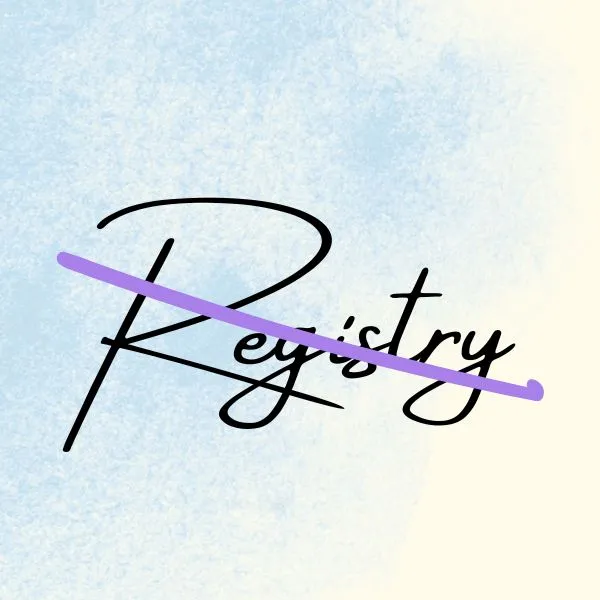
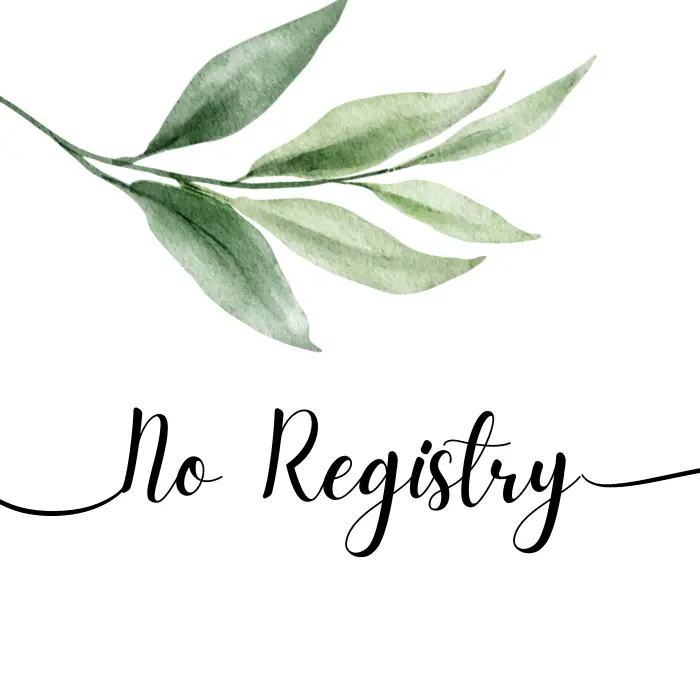
Changed sustainability write ups and fixed katies name

diff --git a/public/index.html b/public/index.html
@@ -239,6 +239,12 @@
                 <span>Accommodations</span>
               </a>
             </li>
+            <!-- <li>
+              <a href="#freetime" class="flex">
+                <i class="material-icons">nature_people</i>
+                <span>Free Time</span>
+              </a>
+            </li> -->
           </ul>
         </nav>
       </div>
@@ -287,36 +293,12 @@
         <div class="sustain-cards">
           <div class="card sustain-card">
             <div class="sustain-card__img">
-              <img src="/imgs/sustainability/molly.webp" alt="" />
-            </div>
-            <div class="sustain-card__text">
-              <h2 class="text-xl center">Bride</h2>
+              <img src="/imgs/sustainability/bridal_party.webp" alt="" />
             </div>
             <div class="description">
-              Molly's wedding dress is pre-loved from
-              <a
-                target="_blank"
-                href="https://www.facebook.com/KnotTooShabbyBridal/"
-              >
-                Knot Too Shabby
-              </a>
-              in Stratford, ON.
-              <!-- Jennie carries a nice selection of dresses for
-              everyone and offers beautiful consignment dresses. -->
-            </div>
-          </div>
-
-          <div class="card sustain-card">
-            <div class="sustain-card__img">
-              <img src="/imgs/sustainability/bridesmaids.webp" alt="" />
-            </div>
-            <div class="sustain-card__text">
-              <h2 class="text-xl center">Bridesmaids</h2>
-            </div>
-            <div class="description">
-              The bridesmaids have been working diligently to thrift their
-              dresses, wear what they have or borrow from a friend! You'll
-              notice they are all different, but uniquely their own :)
+              Molly and bridesmaids have been working diligently to thrift 
+              their dresses, wear what they have or borrow from a friend! 
+              You'll notice they are all different, but uniquely their own.
             </div>
           </div>
 
@@ -324,24 +306,30 @@
             <div class="sustain-card__img">
               <img src="/imgs/sustainability/groomsmen.webp" alt="" />
             </div>
-            <div class="sustain-card__text">
-              <h2 class="text-xl center">Groomsmen</h2>
+            <div class="description">
+              The groomsmen are renting their suits or wearing what they already own.  
+            </div>
+          </div>
+
+          <div class="card sustain-card">
+            <div class="sustain-card__img">
+              <img src="/imgs/sustainability/guests.webp" alt="" />
             </div>
             <div class="description">
-              The groomsmen are renting their suits or wearing what they already
-              own.
+              Please do not buy anything new for our wedding; this includes clothing, 
+              gifts, accessories, etc. We encourage you to please check your local 
+              thrift store or borrow from a friend. We are trying our darndest not to 
+              buy into the fast fashion industry, but it needs to be a collective effort.
+              We appreciate your environmentally conscious actions.               
             </div>
           </div>
 
           <div class="card sustain-card">
             <div class="sustain-card__img">
               <img
-                src="/imgs/sustainability/engagement_ring.webp"
+                src="/imgs/sustainability/rings.webp"
                 alt="Engagement ring in a white rose"
               />
-            </div>
-            <div class="sustain-card__text">
-              <h2 class="text-xl center">Rings</h2>
             </div>
             <div class="description">
               Our engagement ring and wedding bands come from Poags Jewelers in
@@ -352,41 +340,22 @@
           <div class="card sustain-card">
             <div class="sustain-card__img">
               <img
-                src="/imgs/sustainability/ivey.webp"
+                src="/imgs/sustainability/venue.webp"
                 alt="Ivey Spencer Leadership Center"
               />
             </div>
-            <div class="sustain-card__text">
-              <h2 class="text-xl center">Venue</h2>
-            </div>
             <div class="description">
-              We found a venue with accommodations to prevent extra travelling
-              during the wedding day.
-              <ul>
-                <li>
-                  We encourage you to park at Ivey Spencer prior to the wedding
-                  ceremony and take a 10 minute walk down Windermere Rd. to the
-                  chapel and back.
-                </li>
-                <li>
-                  We are working with the venue to take the compost with us
-                  after the celebrations (since London is one of the last major
-                  cities that does not yet have a public compost program).
-                </li>
-                <li>
-                  We chose a buffet style dinner so you can just take the food
-                  you will actually eat and hopefully prevent half your plate
-                  from being tossed.
-                </li>
-              </ul>
+              Ivey Spencer is close to Windermere, which limits travel during the day.
+              You can park at Ivey prior to the wedding ceremony OR carpool to the Mass
+              and back OR walk. Ivey offers composting options for our food scraps, 
+              and we are working with the kitchen to make limited food 
+              for our buffet. We chose a buffet style dinner so you can just take the food 
+              you will actually eat and prevent half your plate from being tossed. 
             </div>
           </div>
           <div class="card sustain-card">
             <div class="sustain-card__img">
               <img src="/imgs/sustainability/registry.webp" alt="No registry" />
-            </div>
-            <div class="sustain-card__text">
-              <h2 class="text-xl center">Lack of Registry</h2>
             </div>
             <div class="description">
               We are asking for no gifts, please. We are hoping to start our
@@ -414,10 +383,10 @@
             <div class="card__content">
               <h2 class="text-2xl">Mass</h2>
               <p>
-                Please consider parking at Ivey Spencer Leadership Centre and
-                walking to the Church (about a 5-10 minute walk). There will be
-                plenty of time to walk back following Mass and before the
-                reception.
+                The Ceremony begins at 2pm! Please consider parking at Ivey Spencer Leadership
+                Centre and either carpooling down the road or walking to the Church 
+                (about a 10-20 minute walk). There will be plenty of time to walk back 
+                following Mass and before the reception. 
               </p>
             </div>
             <div class="card__deets">
@@ -440,10 +409,11 @@
             <div class="card__content">
               <h2 class="text-2xl">Check-in</h2>
               <p>
-                Following Mass, you will have time to check-in and settle into
-                your room. Take this opportunity to change into your good
-                dancing shoes :) This is the time we will be taking photos with
-                our families and bridal party.
+                Please call Ivey Spencer in the morning to ask for an earlier check-in.
+                Their standard time is 3pm, but they may make an exception for Wedding guests.
+                Following Mass, you will have time to check-in and settle into your room. 
+                Take this opportunity to change into your good dancing shoes :) This is 
+                the time we will be taking photos with our families and bridal party.
               </p>
             </div>
             <div class="card__deets">
@@ -456,19 +426,42 @@
                 Ivey Spencer Leadership Centre
               </a>
               <i class="material-icons">schedule</i>
-              <span>4pm</span>
+              <span>3pm</span>
             </div>
           </div>
           <div class="timeline-badge"></div>
         </div>
+
+        <div class="timeline-event">
+          <div class="timeline-content card">
+            <div class="card__content">
+              <h2 class="text-2xl">Free Time</h2>
+              <p>
+                See below for a list of “things to do in London”<br>
+                While we take our photos, you are invited to head back 
+                to your room, or down to the Parish Hall in Windermere for
+                some coffee & tea & social time. There will also be some 
+                lawn games set-up at Ivey Spencer beside the reception tent 
+                for you to enjoy! (There is also a pool table in the lobby).
+              </p>
+            </div>
+            <div class="card__deets">
+              <i class="material-icons">location_on</i>
+              <span>London, Ontario</span>
+              <i class="material-icons">schedule</i>
+              <span>3:30 pm</span>
+            </div>
+          </div>
+          <div class="timeline-badge"></div>
+        </div>
+
         <div class="timeline-event">
           <div class="timeline-content card">
             <div class="card__content">
               <h2 class="text-2xl">Reception</h2>
               <p>
-                Please meet outside Ivey Spencer at the Big White Tent to find
-                your seat. Sign our guest book, snap some photos, and introduce
-                yourself to someone new
+                The rest of the evening will be held in the Big White Tent on the lawn.
+                Find your seat and get ready for dinner and dancing!
               </p>
             </div>
             <div class="card__deets">
@@ -485,11 +478,12 @@
             <div class="card__content">
               <h2 class="text-2xl">Dinner</h2>
               <p>
-                Dinner will be buffet style. It just so happens that buffets are
-                one of Philip's top love languages. Please remember our priority
-                of sustainability. Take what you know you will eat and go back
-                for seconds if you know you can have more. We would love to save
-                on food-waste.
+                Dinner will be buffet style. It just so happens that
+                buffets are one of Philip's top love languages. Please
+                remember our priority of sustainability. Start with a small
+                plate to take what you know you will eat and go back for
+                seconds if you know you can have more. We would love
+                to save on food-waste. 
               </p>
             </div>
             <div class="card__deets">
@@ -506,9 +500,10 @@
             <div class="card__content">
               <h2 class="text-2xl">Speeches &amp; Toasts</h2>
               <p>
-                One of Molly's top love languages is "words of affirmation" so
-                you can bet that we are looking forward to hearing fun stories
-                from our family and friends.
+                One of Molly's top love languages is "words of affirmation"
+                so you can bet that we are looking forward to hearing fun 
+                stories from our family and friends. 
+                Huge kudos to Jack and Crystal for being our MCs for the evening.
               </p>
             </div>
             <div class="card__deets">
@@ -604,7 +599,7 @@
             <div class="polaroid card">
               <img src="/imgs/party/katie.webp" alt="Katie Pic" />
               <div class="polaroid__text">
-                <div class="polaroid__name">Katie Donovan Panchaud</div>
+                <div class="polaroid__name" style="font-size: 0.90rem;">Katie Donovan Panchaud</div>
                 <div class="polaroid__role">Bridesmaid</div>
               </div>
             </div>
@@ -771,6 +766,36 @@
         </p>
       </div>
     </section>
+
+    <!-- <section id="freetime" class="freetime">
+      <div class="container section">
+        <h1 class="text-4xl mb center">Free Time</h1>
+        <p class="mb">
+          If coffee/tea in the Parish hall don't interest you,
+          you are done checking into your room, or you don't want to play
+          lawn games, here are some other suggestions of things to do
+          between the ceremony and reception so you can get to know the 
+          City of London (Distance (km) from Ivey Spencer Leadership Centre included)
+        </p>
+        <ul>
+          <li>
+            <a target="_blank" href="https://shops.cadillacfairview.com/property/cf-masonville-place">
+              Masonville Mall (2.3km)
+            </a>
+          </li>
+          <li>
+            <a target="_blank" href="https://shops.cadillacfairview.com/property/cf-masonville-place">
+              Masonville Mall (2.3km)
+            </a>
+          </li>
+          <li>
+            <a target="_blank" href="https://shops.cadillacfairview.com/property/cf-masonville-place">
+              Masonville Mall (2.3km)
+            </a>
+          </li>
+        </ul>
+      </div>
+    </section> -->
 
     <footer class="flex">
       <a href="#">

diff --git a/public/css/style.css b/public/css/style.css
@@ -432,8 +432,13 @@ nav {
   transform: translateY(100%);
 }
 
+
 .sustain-card:hover .description {
   transform: translateY(0%);
+}
+
+.sustain-card .description ul {
+  padding-left: 1rem;
 }
 
 .sustain-card__text {
@@ -447,6 +452,7 @@ nav {
 .sustain-card__img {
   max-width: 350px;
 }
+
 
 @media (max-width: 768px) {
   .sustain-cards {
